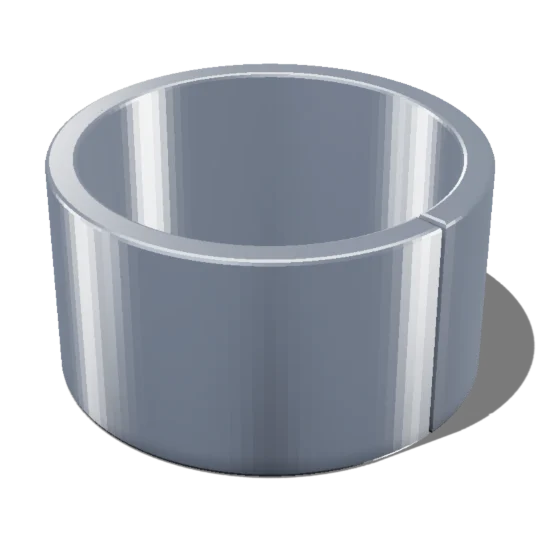
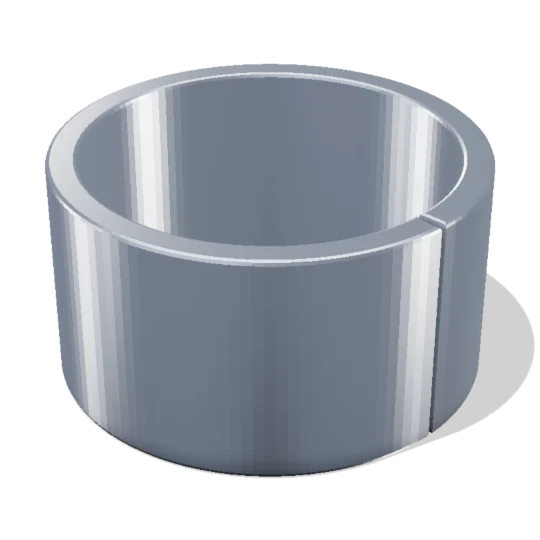
부품 카드를 흰 바탕으로 — 커넥터 톤을 부싱에 맞춤
PERFORMANCE 의 부품 카드 셋이 네이비 바탕이었다. 섹션이 흰 바탕이라
카드만 어두운 섬처럼 떠 있었다 — 제품 라인업 카드와 같은 결로 바꿨다.

바탕을 바꾸니 커넥터가 묻혔다. 색을 부싱과 같은 회색으로 주고 다시
구웠는데도 혼자 밝아서, metalness 가 밝기를 가른다는 것을 확인했다.
0.06 이면 확산광을 그대로 받아 밝아지고 부싱(0.85)은 어두운 방을
비추느라 중간 회색이 된다. 네 값을 나란히 찍어 m0.70 · 색 0.52 를
골랐다. 0.85 는 너무 번들거려 안 썼다.

접지 그림자도 0.52 에서 0.18 로 낮췄다. 네이비에서 맞춘 값이라 흰
바탕에서는 진했다.

diff --git a/src/app/page.tsx b/src/app/page.tsx
@@ -1301,30 +1301,50 @@ export default function Home() {
         />
         */}
 
-        {/* ⚠ **카드 바탕이 네이비다.** 이 섹션은 흰 바탕인데 부품이 밝은 금속이라
-               그냥 두면 묻힌다. 첫 화면 진동기와 **같은 바탕**(bg-dark)을 깔아
-               같은 조건으로 보이게 했다 — 렌더 설정도 같은 값이다.
+        {/* ⚠⚠ **2026-10-15 — 카드 바탕을 네이비에서 흰색으로 바꿨다.**
+               "배경 네이비 색상으로 되어 있는데 흰색으로 하고 싶어. 제품 라인업
+               여기처럼" 이라는 말이다 — 제품 목록 카드와 결을 맞췄다.
+
+               ⚠ 바탕을 바꾸면 **부품 색도 함께 바꿔야 한다.** 커넥터가 흰
+                  플라스틱이라 흰 바탕에서 묻혔다
+                  ("제품 색상은 부싱 이거하고 동일한 회색으로").
+
+                  ⚠⚠ **색만 맞췄더니 그래도 하얗게 떴다.** 커넥터 색을
+                     부싱과 같은 0.72,0.74,0.78 로 주고 다시 구웠는데 화면에서
+                     여전히 혼자 밝았다 — **metalness 가 밝기를 가른다.**
+                     커넥터는 0.06 이라 확산광을 그대로 받아 밝아지고, 부싱은
+                     0.85 라 어두운 방을 비추느라 중간 회색이 된다. 같은 색을
+                     줘도 **재질이 다르면 밝기가 다르다**.
+                     → metalness **0.70** · 색 **0.52,0.54,0.58** 로 내렸다.
+                     0.85(부싱과 완전히 같게)는 너무 번들거려 안 썼다 — 카드
+                     설명이 "플라스틱이라 가볍습니다" 라서 반사가 금속만큼
+                     또렷하면 글과 그림이 어긋난다. 세 판을 나란히 찍어 골랐다.
+                     값은 partrender.mjs 의 PC/PM/PR 환경변수다.
+               ⚠ 접지 그림자도 0.52 → **0.18** 로 낮췄다. 네이비에서 맞춘
+                  값이라 흰 바탕에서는 진하게 보였다.
+               ⚠ 글자색을 전부 뒤집었다 — white → ink, white/55 → muted,
+                  brand-light → brand(밝은 쪽은 어두운 바탕용이다).
             ⚠ 그림은 **정사각**이다(540x540). 카드 셋의 칸 높이가 흔들리지
                않게 하려는 것이다 — 터미널 핀처럼 세로로 긴 것도 같은 칸을 쓴다.
                진동기 쪽 bake.mjs 는 높이 420 정규화라 규칙이 다르다
                (scratchpad/bakepart.mjs). */}
         <ul className="grid gap-6 sm:grid-cols-3 sm:gap-7">
           {PARTS.map((p, i) => (
-            <Reveal as="li" key={p.name} delay={i * 80} className="overflow-hidden rounded-2xl border border-line bg-dark">
+            <Reveal as="li" key={p.name} delay={i * 80} className="overflow-hidden rounded-2xl border border-line bg-white shadow-card">
               <img src={p.src} alt="" width={540} height={540} loading="lazy" decoding="async" className="h-auto w-full" />
-              <div className="border-t border-white/10 px-5 py-4">
-                <p className="text-sm font-bold text-white">{p.name}</p>
-                <p className="mt-0.5 text-xs text-white/55">{p.trait}</p>
-                <dl className="mt-3 flex items-end gap-5 border-t border-white/10 pt-3">
+              <div className="border-t border-line px-5 py-4">
+                <p className="text-sm font-bold text-ink">{p.name}</p>
+                <p className="mt-0.5 text-xs text-muted">{p.trait}</p>
+                <dl className="mt-3 flex items-end gap-5 border-t border-line pt-3">
                   <div>
-                    <dt className="text-[0.6875rem] text-white/55">진동기 1종</dt>
-                    <dd className="text-lg font-bold leading-tight text-white/70">{p.one}%</dd>
+                    <dt className="text-[0.6875rem] text-muted">진동기 1종</dt>
+                    <dd className="text-lg font-bold leading-tight text-ink-soft">{p.one}%</dd>
                   </div>
                   <div>
-                    <dt className="text-[0.6875rem] text-white/55">진동기 4종</dt>
-                    <dd className="text-lg font-bold leading-tight text-brand-light">{PART_ERROR.four}%</dd>
+                    <dt className="text-[0.6875rem] text-muted">진동기 4종</dt>
+                    <dd className="text-lg font-bold leading-tight text-brand">{PART_ERROR.four}%</dd>
                   </div>
-                  <p className="ml-auto pb-0.5 text-[0.6875rem] text-white/40">에러율</p>
+                  <p className="ml-auto pb-0.5 text-[0.6875rem] text-muted">에러율</p>
                 </dl>
               </div>
             </Reveal>
